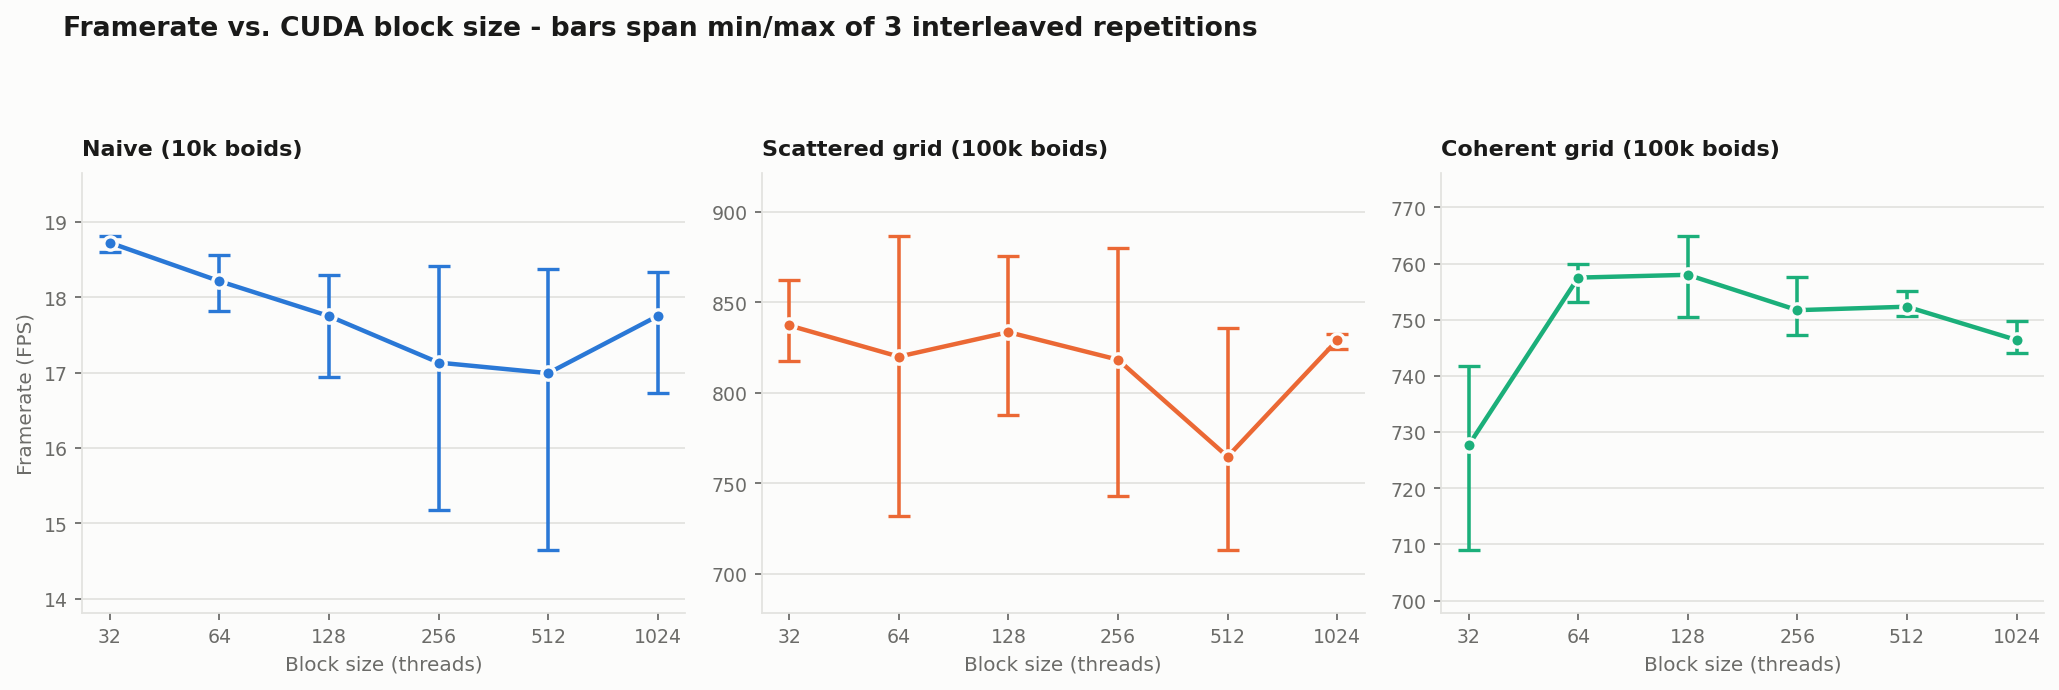
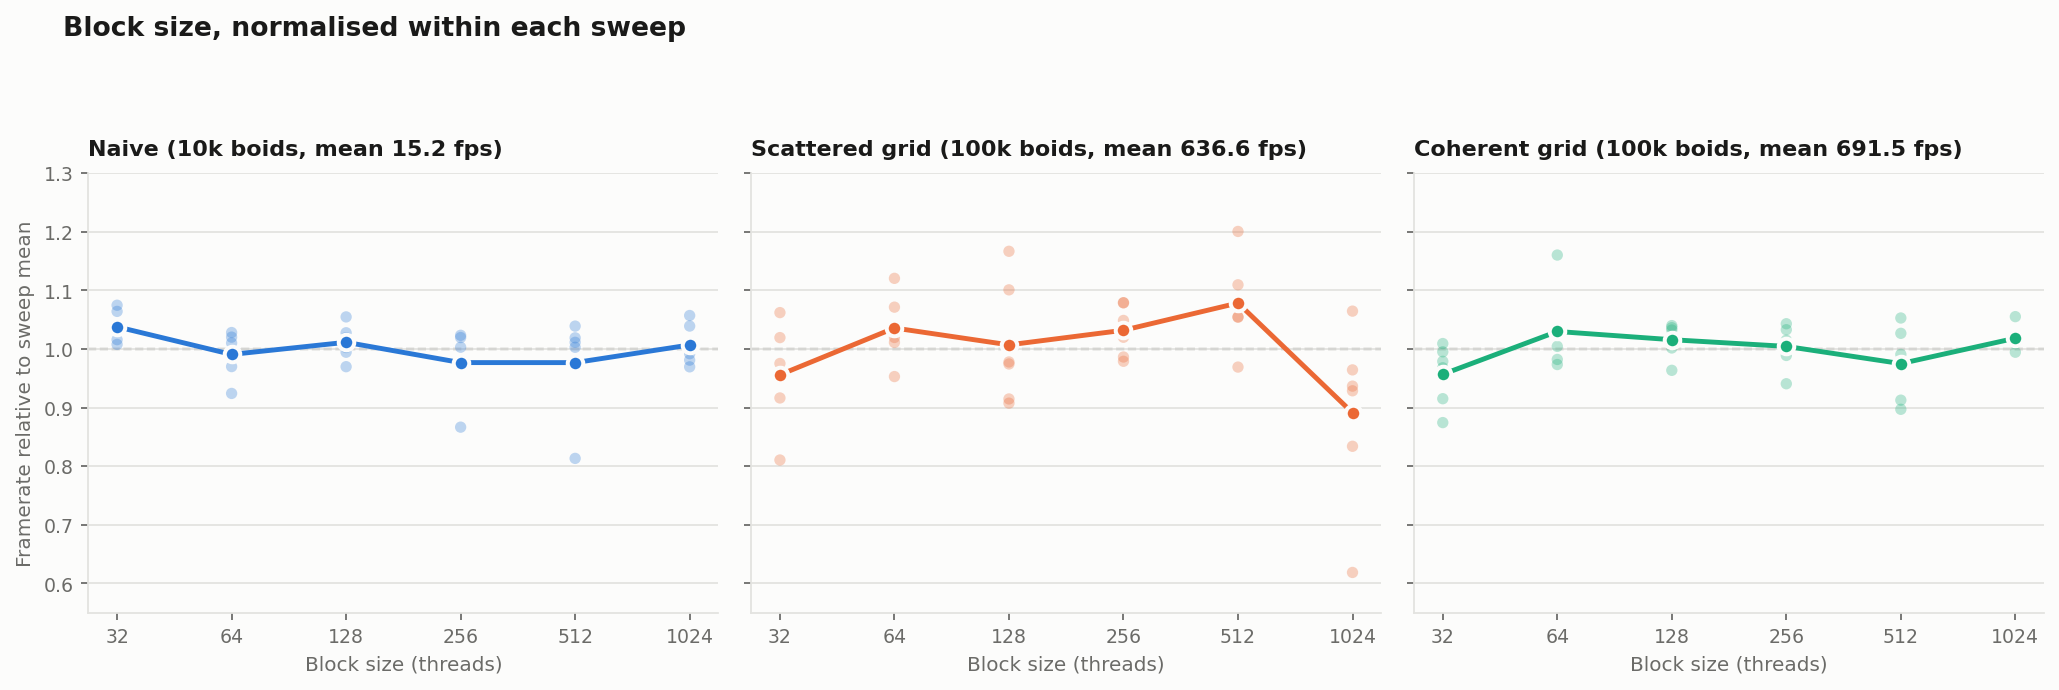
readme, everything else

diff --git a/src/main.hpp b/src/main.hpp
@@ -1,4 +1,4 @@
-#pragma once
+#pragma once
 
 #include "glslUtility.hpp"
 #include "utilityCore.hpp"
@@ -28,7 +28,7 @@ const float zFar = 10.0f;
 // LOOK-1.2: for high DPI displays, you may want to double these settings.
 int width = 1280;
 int height = 720;
-int pointSize = 2;
+int pointSize = 4;
 
 // For camera controls
 bool leftMousePressed = false;
@@ -37,7 +37,7 @@ double lastX;
 double lastY;
 float theta = 1.22f;
 float phi = -0.70f;
-float zoom = 4.0f;
+float zoom = 2.8f;
 glm::vec3 lookAt = glm::vec3(0.0f, 0.0f, 0.0f);
 glm::vec3 cameraPosition;
 

diff --git a/src/main.cpp b/src/main.cpp
@@ -23,11 +23,11 @@
 
 // LOOK-2.1 LOOK-2.3 - toggles for UNIFORM_GRID and COHERENT_GRID
 #define VISUALIZE 1
-#define UNIFORM_GRID 0
-#define COHERENT_GRID 0
+#define UNIFORM_GRID 1
+#define COHERENT_GRID 1
 
 // LOOK-1.2 - change this to adjust particle count in the simulation
-const int N_FOR_VIS = 5000;
+const int N_FOR_VIS = 25000;
 const float DT = 0.2f;
 
 // Grid cell width as a multiple of the largest neighbourhood distance.

diff --git a/README.md b/README.md
@@ -3,9 +3,94 @@ Project 1 - Flocking**
 
 * Neel Shejwalkar
   * [LinkedIn](https://www.linkedin.com/in/neel-shejwalkar/), [twitter](https://x.com/neelshej)
-* Tested on: Windows 11, i7-10510U @ 1.80GHz 16GB, MX250 2GB (Personal Computer)
+* Tested on: Windows 11, i7-10510U @ 1.80GHz 16GB, MX250 (GP108, sm_61) 2GB (Personal Computer)
 
-### README
+![Boids flocking](images/boids.gif)
 
-Include screenshots, analysis, etc. (Remember, this is public, so don't put
-anything here that you don't want to share with the world.)
+| | |
+|---|---|
+| SMs | 3 |
+| CUDA cores | 128/SM = 384 total |
+| Max threads / SM | 2048 (64 warps) |
+| Max blocks / SM | 32 |
+| L2 cache | 512 KB |
+| Shared memory | 96 KB/SM, 48 KB/block |
+| Registers | 65,536 per SM |
+| Memory bus | 64-bit @ 3004 MHz = 48.1 GB/s |
+| VRAM | 2048 MB |
+| SM clock (max) | 1582 MHz |
+| Peak FP32 | 1215 GFLOP/s |
+
+# Questions
+
+### For each implementation, how does changing the number of boids affect performance? Why do you think this is?
+
+![Framerate vs. boid count](images/perf_boids.png)
+
+![Scattered vs. coherent at large boid counts](images/perf_large_n.png)
+
+For the naive approach, increasing the number of boids quadratically worsened the fps. It's clear to see why: to update the velocity in each step in the simulation, every single thread has to check the velocity and position of every other boid via dev_pos and dev_vel1, leading to around 2N^2 global memory accesses per step. Given that threads (within the same block) map to boids geometrically all over the simulation space, the GPU can't even take meaningful advantage of locality by caching reads to L1 for these arrays.
+
+The scattered grid approach scaled far better. rather than making 2N reads to dev_pos and dev_vel1 per thread, each boid only needs to check (at most, given that I've implemented extra credit 1) the neighboring cells that land within a cube (of the size of largest rule distance) of the current boid. There are a couple of extra kernel invocations and a thrust::sort, but these add negligible latency compared to the gains from not checking every other boids' data.
+
+The coherent grid approach scaled about just as well as the scattered grid approach, which was surprising to me (see my answer below). Conceptually, this approach has all of the same benefits as the scattered grid, with the added benefit of new buffers (dev_pos_sorted, dev_vel_sorted) that are populated prior to velocity and position updates. These new buffers allow for consecutive threads to access data that's also stored contiguously in global memory, because each thread in kernUpdateVelNeighborSearchCoherent indexes into the sorted position array. Consider a single warp, where all of the 32 boids are most likely in the same grid cell, and so would step through all of the neighboring grid cells and their boids together in lockstep. In this case, reads into the sorted velocity array would be mostly broadcast, leading to (theoretically) huge gains in performance.
+
+### For each implementation, how does changing the block count and block size affect performance? Why do you think this is?
+
+![Framerate vs. block size](images/perf_blocksize.png)
+
+Each configuration run 6 times.
+
+For every implementation, I tested a single (relatively large for the implementation) boid count at varying block sizes, and did not observe any meaningful differences between them. To confirm, I ran the test 6 times per block size, and found the variance to be somewhat negligible as well. At the very least, there isn't a clear trend.
+
+Considering that we're not using any shared memory, we would only expect the performance to vary meaningfully if changing the blockSize leads to nearing some sort of limit (on registers, blocks/SM, threads/SM, etc) leading to a lack of active warps to effectively hide latency. Looking at my GPU's SM limits, we can see that a block size of 32 leads to 32 blocks being put on every SM, or 32 warps per SM, which is 32/64 = 50% occupancy. However, even this somewhat extreme configuration doesn't seem to yield any noticeable change in FPS compared to the others. This leads to the conclusion that the number of active warps/SM barely matters, and that latency hiding is not an issue on my machine.
+
+NSight Systems doesn't support collecting GPU Metrics for my GPU's architecture (Pascal), and NSight Compute doesn't either, so I wasn't able to confirm this rigorously.
+
+### For the coherent uniform grid: did you experience any performance improvements with the more coherent uniform grid? Was this the outcome you expected? Why or why not?
+
+![Scattered vs. coherent at large boid counts](images/perf_large_n.png)
+
+The results were very surprising. The coherent grid strategy was much better than the scattered grid strategy (21% better at 100k, 12.5% better at 1M) - but only when the visualization was enabled. With the visualization off, the trend is completely flipped. A perplexing result like this requires a deeper look into the work done by CUDA and OpenGL per frame.
+
+Let's analyze both situations, starting with the visualization off. Coherent grid is somehow 25% slower than the scattered grid strategy. My first guess was that the added latency from reshuffling in kernReshuffleBoidData outweighed the gains of coalescing memory accesses. But looking at the nsys CUDA GPU Kernel Summary, I see that sorting + reshuffling is only 2% of the total time, whereas updating velocity is a staggering 97%. This can only mean the coherent grid has made the velocity updates slower for some reason. To investigate further, I'd need to use ncu which doesn't support my GPU.
+
+```
+ ** CUDA GPU Kernel Summary (cuda_gpu_kern_sum):
+
+ Time (%)  Total Time (ns)  Instances   Avg (ns)     Med (ns)    Min (ns)   Max (ns)   StdDev (ns)   Name
+ --------  ---------------  ---------  -----------  -----------  ---------  ---------  -----------   ----
+     97.2      74778914941        300  249263049.8  249214485.5  173476422  423006581   32305568.2   kernUpdateVelNeighborSearchCoherent(int, int, glm::tvec3<float, (glm::precision)0>, float, float, i.
+      1.3       1001705612       1200     834754.7     782929.0     467457    1424002     236740.2   void cub::CUB_200802_SM_610::DeviceRadixSortOnesweepKernel<cub::CUB_200802_SM_610::detail::radix::p.
+      0.7        573714106        300    1912380.4    1901458.0    1495364   11053219     560970.6   kernReshuffleBoidData(int, int *, glm::tvec3<float, (glm::precision)0> *, glm::tvec3<float, (glm::p.
+```
+
+Now with the visualization on, timing runCUDA() and the OpenGL operations (glDrawElements, etc) for both implementations (100k boids) for one frame results in around 0.396ms vs 0.969ms for OpenGL related operations, for the coherent vs scattered grid strategy. For everything else (CUDA operations), it's around 3.38ms vs 3.42ms, which is basically identical. It's clear that the actual drawing pipeline (shaders, assembly, rasterization) takes far longer when the positions/velocities in the VBOs are scattered, whereas the actual CUDA operations barely benefit from the coherent grid.
+
+### Did changing cell width and checking 27 vs 8 neighboring cells affect performance? Why or why not? Be careful: it is insufficient (and possibly incorrect) to say that 27-cell is slower simply because there are more cells to check!
+
+![Coherent grid: 8-cell vs 27-cell neighbour search](images/perf_cellwidth.png)
+
+There was no consistent effect here. They both resulted in very similar results except for an outlier at 50k boids. When searching 8 cells across a cell width of 2r (where r is the maximum of the radius of the three rules' distances), the volume searched is 8(2r)^3 = 64r^3, whereas searching 27 cells across a cell width of r results in 27r^3 volume searched. The 27 cells configuration searches fewer boids but has to make more grid accesses, and it seems as if the two cancel out on my GPU.
+
+## Benchmark Methodology:
+For the main test, for each of (with, without visualization), for each of (naive, scattered grid, coherent grid), I tested on a large range of boid numbers: 1k, 5k, 10k, 25k, 50k, 100k, 250k, 500k, 1M boids.
+
+For each test, I set up a 3 second warmup period then measured the fps across the 5 seconds after the program began running.
+
+Considering I was working on a budget laptop, benchmarking was a lot more complicated than I initially imagined. I had done most of my development on my friend's desktop workstation at first, which has a Blackwell with a ton of cooling, and imagined profiling would be a simple loop over the program.
+
+For my GPU, thermal throttling begins at around 75 C. The laptop quickly shoots up to this temperature, then tweaks clock speeds to keep it here. in the case where the gpu still exceeds this temp, if it hits 97 C, thermal throttling occurs and aggressive clock cutting happens. Along with disabling V-Sync, I also positioned my laptop right next to the AC, had it plugged in, with all processes closed except for the ones I needed to run the program. This turned out to be extremely important. My initial benchmarks were on a hot laptop,sitting on my lap, with Chrome, VSCode and several other applications open, resulting in far lower clock speeds and worse performance by several orders of magnitude.
+
+
+![GPU thermal and clock behaviour across the session](images/thermals.png)
+
+We can observe that the temperature and the clock speeds are roughly stable throughout the main benchmarking run.
+
+To make it a bit more robust, I noted that the main goal was to compare different implementations at the same boid numbers, and then secondly to observe how the implementations themselves scaled with boid numbers. So some thermal drift across the second objective was fine, in service of the first objective. to make this work, I made sure all three implementations for a given boid size ran back to back to capture similar thermals, rather than, for example, having all of the naive runs go first, then scattered grid, etc. Although, given the stability of the clock speeds after implementing the fixes, this might not have made much of a difference.
+
+
+Problems:
+- Blue Screen of Death
+  - Solution: upgraded driver from 576.57 -> 581.80
+
